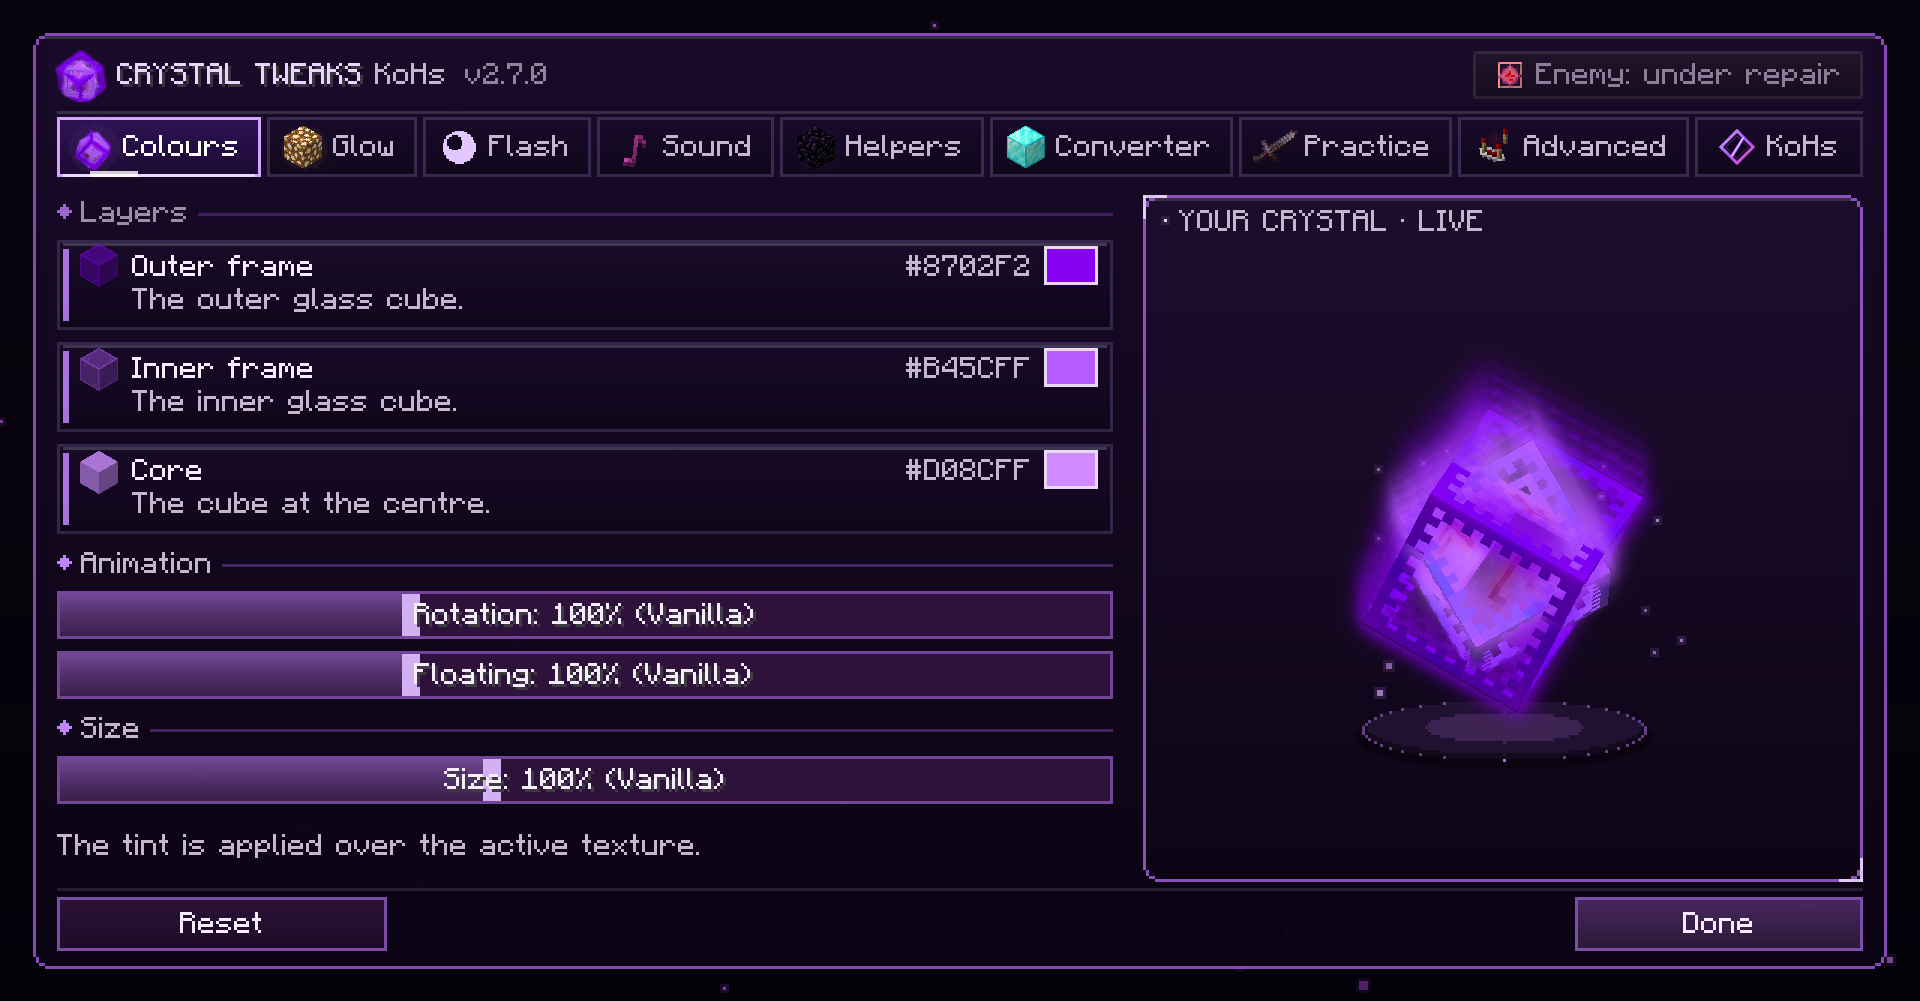
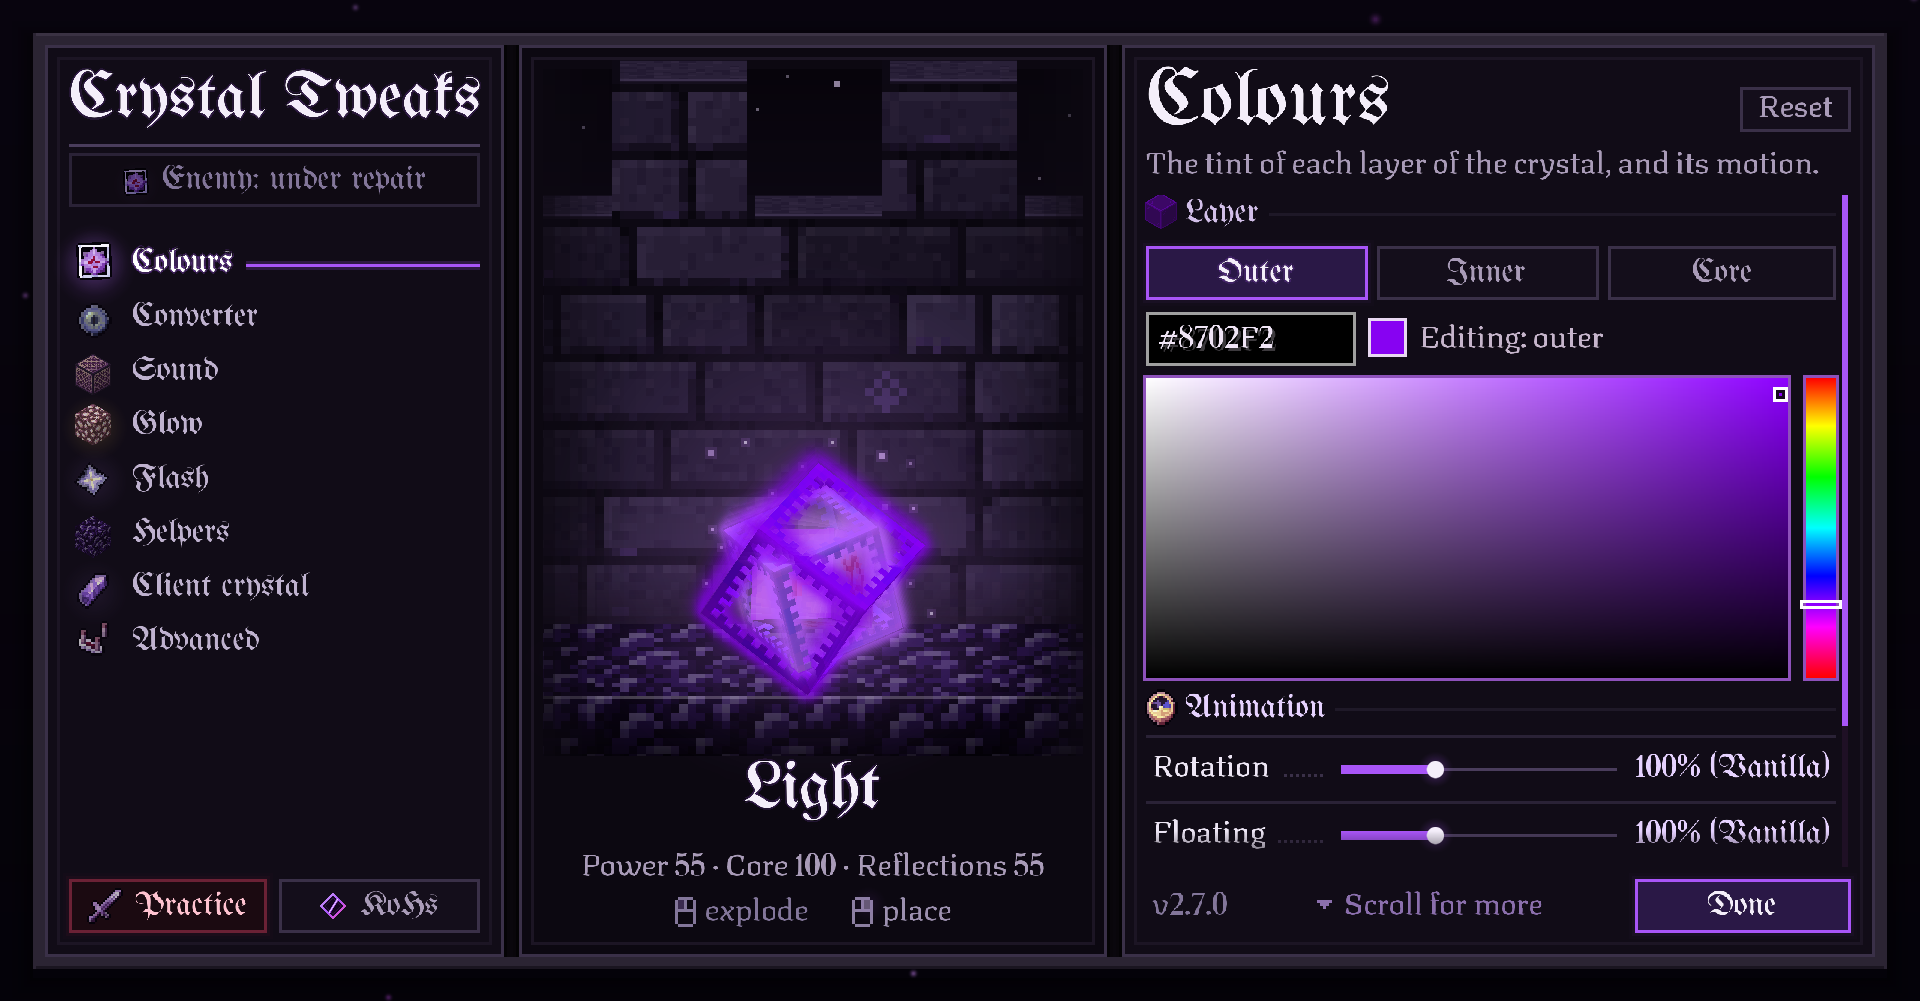
Docs: 2.7.0 screenshots and Modrinth description

diff --git a/docs/releases/MODRINTH.md b/docs/releases/MODRINTH.md
@@ -3,46 +3,49 @@
 [![Report an issue](https://img.shields.io/badge/GitHub-Report%20an%20issue-D73A49?logo=github&logoColor=white)](https://github.com/kerlycanelita/KoHs-Crystal-Tweaks/issues/new)
 [![Wiki](https://img.shields.io/badge/Wiki-Guide-7B2CBF?logo=readthedocs&logoColor=white)](https://github.com/kerlycanelita/KoHs-Crystal-Tweaks/wiki)
 
-# Crystal Tweaks 2.6.1
+# Crystal Tweaks 2.7.0
 
 ## The settings
 
-Open the settings and the menu comes up around your crystal, which wears everything you set,
-colours, glow, flash and sound.
+The settings are a dark book of three pages: the sections on the left, your crystal in the middle
+and the open section on the right. The crystal wears everything you set, colours, glow, flash and
+sound, at its real size, floating over an obsidian floor before a castle wall.
 
-- **Colours** on the left, **Glow** on the right; both panels take on the glow's colour while you change it.
-- Tabs above the crystal, turned with the mouse wheel: **Sound**, **Crystal Tweaks**, **Advanced**, **Converter** and **KoHs**.
-- **Enemy crystals**, in the corner, is under repair in 2.6.1: its button is dimmed and every crystal uses your own profile for now.
-- **Crystal Practice** under the crystal.
+- Sections: **Colours**, **Converter**, **Sound**, **Glow**, **Flash**, **Helpers**, **Client crystal** and **Advanced**, with **Crystal Practice** and **KoHs** under them.
+- **Enemy crystals**, over the sections, is under repair: its switch is dimmed and every crystal uses your own profile for now.
+- Left click the crystal to explode it, right click to place it again.
+- The settings always open at GUI scale 3, whatever yours is, and give yours back when they close.
 
-![Settings](https://raw.githubusercontent.com/kerlycanelita/KoHs-Crystal-Tweaks/main/docs/images/hub-main.png)
+![Settings](https://raw.githubusercontent.com/kerlycanelita/KoHs-Crystal-Tweaks/main/docs/images/hub-2.7-colours.png)
 
 
 ## Glow
 
-Open the **Glow** panel, on the right of the settings:
+Open the **Glow** section:
 
 - **The glow is in the crystal:** its layers shine, each in its own colour, and the light turns and floats with them.
-- **Style:** **Light**, a soft glow round every frame that keeps its colour in daylight, or **Layers**, stronger and more saturated.
+- **Style:** **Light**, a soft glow round every frame that keeps its colour in daylight, **Layers**, stronger and more saturated, or **Heartbeat**, **Aurora**, **Orbit**, **Flames** and **Sigil**, which add light of their own round the crystal. Each style has settings of its own, such as the heartbeat's rhythm, the orbits' trail or the sigil's points.
 - **Power:** from 0 to 300%. An extra glow layer keeps the effect visible in any lighting, not only at night.
 - **Core:** how much the core glows, from 0 to 300%, with every kind of glow.
 - **Motion blur:** the layers trail behind them as they turn, from 0 to 100%, with the glow on or off.
 - **Quality:** Performance, Balanced or Quality decide how much the glow draws. Even on Quality it costs less than the glow of 2.5.0 did.
 - **Reflections:** simulates colored light on the top faces of nearby blocks.
 - **Custom color:** uses the same color picker as the rest of the menu. It colors the light only; the crystal's own layer colors stay as you set them.
-- **Flash on explosion:** the light a destroyed crystal leaves behind fades smoothly, in one of fourteen styles, sized from 10% to 300%.
+- **Flash**, in its own section: the light a destroyed crystal leaves behind fades smoothly, in one of fourteen shapes, each with settings of its own, sized from 10% to 300%.
 
-The glow respects walls and does not use Vanilla's outline that shows through terrain. Prefer the halo it used to be? **Old KoHs Crystal Glow**, in the Advanced tab, brings it back.
+The glow respects walls and does not use Vanilla's outline that shows through terrain. Prefer the halo it used to be? **Old KoHs Crystal Glow**, in **Advanced**, brings it back.
 
 ![Motion blur](https://raw.githubusercontent.com/kerlycanelita/KoHs-Crystal-Tweaks/main/docs/images/glow-blur.png)
 
 ![Flash styles](https://raw.githubusercontent.com/kerlycanelita/KoHs-Crystal-Tweaks/main/docs/images/flash-styles.png)
 
-![Glow settings](https://raw.githubusercontent.com/kerlycanelita/KoHs-Crystal-Tweaks/main/docs/images/hub-glow-lit.png)
+![Glow styles](https://raw.githubusercontent.com/kerlycanelita/KoHs-Crystal-Tweaks/main/docs/images/hub-2.7-glow-styles.png)
+
+![Flash shapes](https://raw.githubusercontent.com/kerlycanelita/KoHs-Crystal-Tweaks/main/docs/images/hub-2.7-shapes.png)
 
 ## Converter My Crystal
 
-Turn your crystals into something else: any block, item or entity of your game version, picked from a searchable catalogue in the **Converter** tab. It is off until you turn it on.
+Turn your crystals into something else: any block, item or entity of your game version, picked from a searchable catalogue in the **Converter** section. It is off until you turn it on.
 
 - The crystal keeps its spin and its float, and follows **Rotation**, **Floating** and the new **Size** (30% to 200%).
 - The enemy menu has a Converter of its own, for when it is back from repair.
@@ -51,50 +54,64 @@ Turn your crystals into something else: any block, item or entity of your game v
 
 ![Converter My Crystal](https://raw.githubusercontent.com/kerlycanelita/KoHs-Crystal-Tweaks/main/docs/images/converter.png)
 
-![The Converter tab](https://raw.githubusercontent.com/kerlycanelita/KoHs-Crystal-Tweaks/main/docs/images/hub-converter.png)
-
 ## Other players' crystals
 
-**Under repair in 2.6.1:** the enemy profile is switched off for now, and every crystal, the enemy's too, is drawn with your own profile. This is how it works when it is back.
+**Under repair:** the enemy profile is switched off for now, and every crystal, the enemy's too, is drawn with your own profile. This is how it works when it is back.
 
-Give crystals you did not place their own visual profile, with separate colors, glow and animation speeds so they stand out immediately. Identification is approximate because the server does not tell the client who placed a crystal. Anything that does not match your recent placements—including crystals that were already there when you joined—uses the other-player profile. The server's own acknowledgement of your placement tells your crystal from one that reached the same base first, also in fast bursts. Switch to it with **Enemy crystals** in the corner of the settings.
+Give crystals you did not place their own visual profile, with separate colors, glow and animation speeds so they stand out immediately. Identification is approximate because the server does not tell the client who placed a crystal. Anything that does not match your recent placements—including crystals that were already there when you joined—uses the other-player profile. The server's own acknowledgement of your placement tells your crystal from one that reached the same base first, also in fast bursts. Switch to it with **Enemy crystals** over the sections.
 
 ## Works alongside other mods
 
-**With Marlow's or another detected crystal optimizer installed, all Crystal Tweaks optimizations and interaction helpers stay off:** instant break, instant explosion, removal reader, ghost crystals, Don't break obsidian and placement tracking. Pending predictions are cleared, and saved settings cannot reactivate these helpers during a conflict.
+**The client crystal stands down while another crystal optimizer such as Marlow's is installed:** instant break, instant explosion, ghost crystals and paced placement stay off, and the **Client crystal** section says why. Client-side crystal mods and colour mods do not stop it, and neither do performance mods such as Krypton, Sodium or Lithium. Colours, glow, sounds and the preview are always available.
 
-The helpers also stay off while compatibility is being checked. If the check cannot read every mod, they stay on and the menu says so. Colors, glow, other-player crystal appearances, sounds and the preview stay available. The menu shows why the helpers are paused.
-
-**Client Side Crystals, HCsCR and the "... Crystal Optimizer" mods count as optimizers:** Client Side Crystals draws its own stand-in crystal the moment you place one, which is the ghost crystals' job. Mods that do things with crystals without optimizing them, such as Safe Crystal, Crystal Glow, Custom End Crystals, spin tweaks or counters, never pause anything, and neither do performance mods such as Krypton, Sodium or Lithium.
-
-You also get optional ghost crystals (off by default), a scroll hint when more options are available, and a conflict monitor that warns about possible mod clashes.
+A conflict monitor warns about possible mod clashes.
 
 ## Crystal Practice (experimental)
 
 Practice crystal PvP against a bot in a world of its own, from the **Crystal Practice** button under the crystal in the settings:
 
 - **A bot that plays real techniques**, by difficulty: hit-crystal, respawn anchors and face-placing on Normal; d-taps timed to the end of your damage immunity, safe anchors behind glowstone, top-blocking and hiding in holes on Hard; the butterfly, double anchors, triple taps and chain pops on Extreme. Its techniques cannot be switched off: the menu lists them, with how each one works. It carries your own kit and is held to human timing.
-- **Two styles:** a **smart** bot that blocks off with obsidian, hides in holes and pearls away to heal, or an **aggressive** one that rushes and never backs off. Both mine their way out if you box them in, and every pearl is aimed by simulating its flight against the terrain before the throw.
+- **Three styles:** a **smart** bot that blocks off with obsidian, hides in holes and pearls away to heal, an **aggressive** one that rushes and never backs off, or a **peaceful** one that moves, dodges and keeps its totem but never attacks. They mine their way out if you box them in, and every pearl is aimed by simulating its flight against the terrain before the throw.
 - **Your kit, your layout:** netherite, diamond or iron armour, a Knockback I or II sword, 1 to 20 totems or a full inventory, and presets modelled on MCTiers, MCPVP and PVPHQ. Arrange the inventory in a kit editor with a kit room, **Save** and **Reset**.
-- **Three grounds:** a flat of netherite blocks, a hole arena, or an almost flat meadow with few trees and no caves in one of eight biomes. Every death starts a new round on a rebuilt arena.
+- **Four grounds:** a flat of netherite blocks, a hole arena, an almost flat meadow with few trees and no caves in one of eight biomes, or a normal world as Minecraft generates it. Every death starts a new round on a rebuilt arena.
+- **Without leaving the server:** on a server, Enter practice opens the practice world in the same window while the server stays connected behind it, and Leave practice puts you back where you were.
+- **Training:** drills with a goal and a clock, a report after each round, a round map of every blast that did damage, and a damage map that lights each obsidian in reach by what its blast would do. Practise at a server's delay, from 0 to 300 ms, and copy your server inventory into a kit.
 
 ![Crystal Practice](https://raw.githubusercontent.com/kerlycanelita/KoHs-Crystal-Tweaks/main/docs/images/practice-gear.png)
 
 ![Practice grounds](https://raw.githubusercontent.com/kerlycanelita/KoHs-Crystal-Tweaks/main/docs/images/practice-worlds.png)
 
-## Instant break, instant explosion
+## Client crystal
 
-The crystal you hit disappears from your screen the moment you hit it, and its explosion, sound and
-burst, plays right then instead of a round trip later. A crystal the server removes, anyone's, stops
-being drawn the moment the removal arrives. All three are drawing and sound on your screen only: no
-packet is added, changed or delayed, and the server still decides every hit and placement.
+Off until you turn it on, in the **Client crystal** section. The crystal you hit disappears from
+your screen the moment you hit it, and its explosion, sound and burst, plays right then instead of a
+round trip later. It stays in your world, so your next click, your reach and every packet are
+Vanilla's, and it shows again if the server refuses the hit (**Refused hit cue** plays a low note
+then). **Ghost crystals** draw a stand-in on the obsidian until the server's crystal arrives; it
+cannot be hit and no packet names it. **Paced placement** holds a click on the crystal you just
+broke until the server removes it, then places: the same Vanilla packet, never ahead of the server,
+but it changes when your click goes out, so check your server's rules.
 
-Tested on a local server with Grim Anticheat and Ravenclaw's Ping Equalizer, walking and placing
-obsidian and crystals: no alerts, and the same packets, cycle for cycle, as Vanilla.
+Instant break and instant explosion were tested on a local server with Grim Anticheat and
+Ravenclaw's Ping Equalizer, walking and placing obsidian and crystals: no alerts, and the same
+packets, cycle for cycle, as Vanilla.
+
+![Client crystal](https://raw.githubusercontent.com/kerlycanelita/KoHs-Crystal-Tweaks/main/docs/images/hub-2.7-client-crystal.png)
+
+## In the fight
+
+Under **Helpers**, all off until you turn them on: **Why didn't it place?** says under the crosshair
+why a crystal did not appear where you clicked; the **Latency meter** shows beside the hotbar how long
+the server took to place and to remove your last crystals; the **Death recap** lists, on the death
+screen or in chat, the blasts of your last 8 seconds and whose crystals they were. They only read
+what you already see. **Don't break obsidian** and **Obsidian debounce** filter clicks, so they send
+fewer actions than Vanilla: leave them off if your server forbids input filters.
+
+![Helpers](https://raw.githubusercontent.com/kerlycanelita/KoHs-Crystal-Tweaks/main/docs/images/hub-2.7-helpers.png)
 
 ## Built for fair play
 
-Crystal Tweaks only changes local presentation and local helpers. It does not change reach, camera, cooldowns or click timing, and it does not invent or repeat actions. Crystal Practice and its bot only exist in their own singleplayer worlds. Server rules can differ, so always check the rules of the server you play on.
+Crystal Tweaks only changes local presentation and local helpers. It does not change reach, camera or cooldowns, and it does not invent or repeat actions; the one setting that changes when a click goes out, Paced placement, is off by default and never places ahead of the server. Crystal Practice and its bot only exist in their own singleplayer worlds. Server rules can differ, so always check the rules of the server you play on.
 
 ## Compatibility
 

diff --git a/README.md b/README.md
@@ -27,7 +27,7 @@ Crystal Tweaks brings End Crystal visual and sound controls into one animated co
 
 | Settings | Glow | Flash shapes |
 | --- | --- | --- |
-| ![The Colours tab: layer cards on the left, the live crystal on the right](docs/images/hub-2.7-colours.png) | ![The Glow tab with its settings unfolded under the switch](docs/images/hub-2.7-glow.png) | ![The flash shapes in a window beside the crystal](docs/images/hub-2.7-shapes.png) |
+| ![The Colours page: the sections on the left, the crystal before its castle wall, the page on the right](docs/images/hub-2.7-colours.png) | ![The Glow page with its settings unfolded under the switch](docs/images/hub-2.7-glow.png) | ![The flash shapes over the page, the Crown's own settings unfolded](docs/images/hub-2.7-shapes.png) |
 
 | Motion blur | Advanced tab | KoHs |
 | --- | --- | --- |
